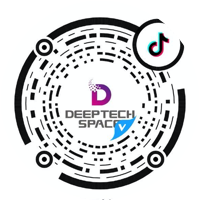
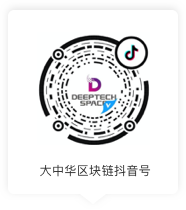
替换二维码图片, 调整边距

diff --git a/css/attention.css b/css/attention.css
@@ -18,8 +18,8 @@
 .weixin::after {
 	content: url(../img/ic_publish.png);
 	position: absolute;
-	top: -200px;
-	left: -70px;
+	top: -210px;
+	left: -75px;
 	z-index: 5;
 	width: 120px;
 	height: 120px;
@@ -45,8 +45,8 @@
 .douyin::after {
 	content: url(../img/ic_douyin.png);
 	position: absolute;
-	top: -200px;
-	left: -70px;
+	top: -210px;
+	left: -75px;
 	z-index: 5;
 	width: 120px;
 	height: 120px;

diff --git a/css/website.css b/css/website.css
@@ -169,7 +169,8 @@
 }
 
 .partnerImg img:hover {
-	box-shadow: #999 0px 0px 8px;
+	box-shadow: #D8D8D8 0px 0px 30px;
+	/* box-shadow: red; */
 }
 
 .partnerImgStyle {
